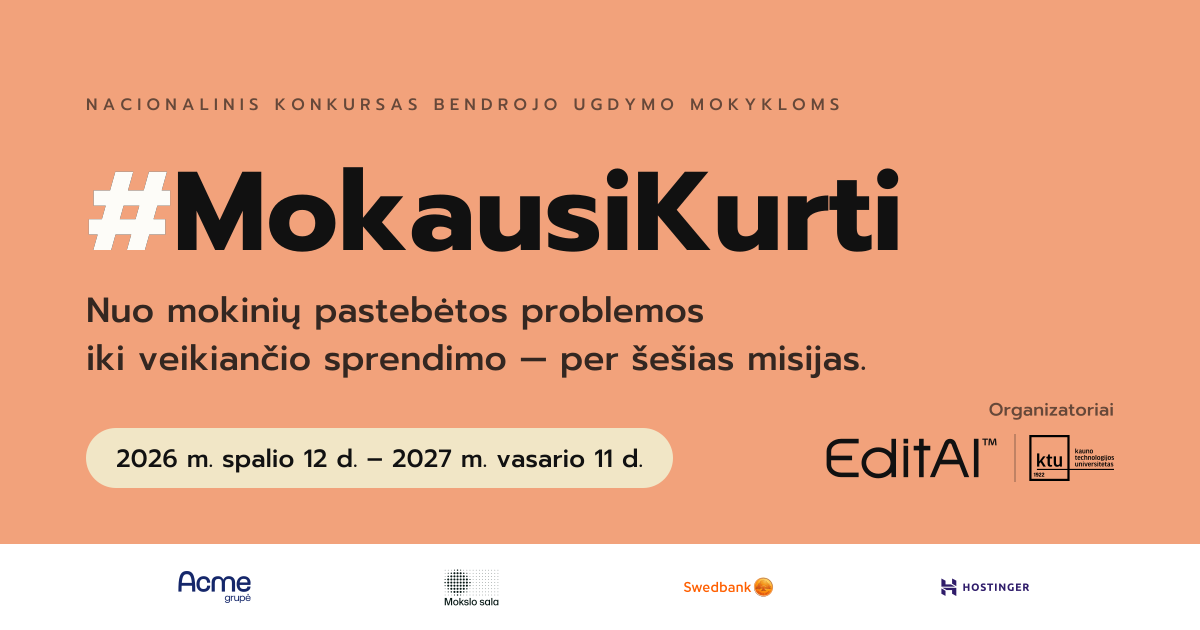
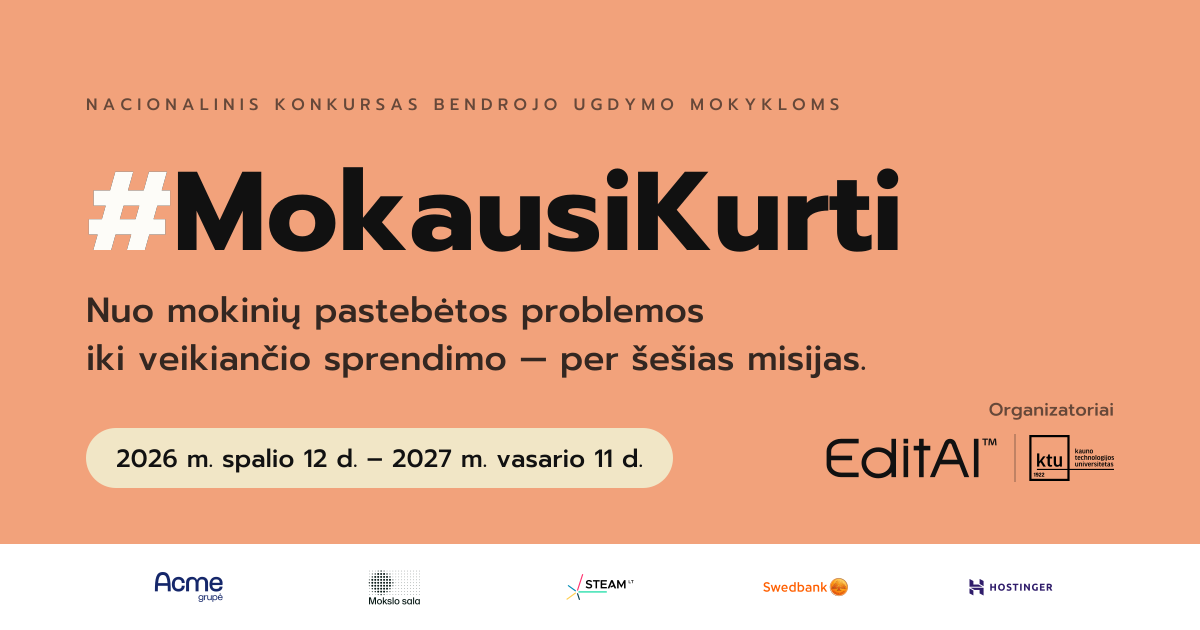
Kauno STEAM centras - partneris

diff --git a/index.html b/index.html
@@ -180,6 +180,7 @@ a.tile:hover{border-color:var(--line-strong);transform:translateY(-2px);box-shad
 .plogo--ms img{max-height:58px;max-width:112px}
 .plogo--swed img{max-height:30px;max-width:152px}
 .plogo--host img{max-height:26px;max-width:150px}
+.plogo--steam img{max-height:34px;max-width:140px}
 .plogo__cap{position:absolute;left:0;right:0;bottom:9px;text-align:center;font-size:10.5px;font-weight:500;letter-spacing:.1em;text-transform:uppercase;color:rgba(17,17,17,.42)}
 
 /* section head */
@@ -428,6 +429,7 @@ a.tile:hover{border-color:var(--line-strong);transform:translateY(-2px);box-shad
           <path d="M17.4218 0C2.42125 0 0 13.6887 0 42.5081H6.42811C6.42811 37.8786 6.51006 33.8914 6.66775 30.4249H28.1747C28.3311 33.8914 28.4143 37.8786 28.4143 42.5081H34.8424C34.8424 13.6887 32.4224 0 17.4218 0ZM7.05267 24.5061C8.42347 9.17211 12.0193 6.56975 17.4206 6.56975C22.8231 6.56975 26.4177 9.17211 27.7885 24.5061H7.05267Z" fill="#15276A"/>
         </svg><span class="plogo__cap">Geri darbai</span></a>
       <a class="tile plogo plogo--ms" href="https://mokslosala.lt" target="_blank" rel="noopener"><img src="logo/logo-mokslosala.svg" alt="Mokslo sala" loading="lazy"></a>
+      <a class="tile plogo plogo--steam" href="https://steamlt.lt/kaunas/" target="_blank" rel="noopener"><img src="logo/logo-steam.svg" alt="Kauno STEAM centras" loading="lazy"><span class="plogo__cap">Kauno STEAM centras</span></a>
       <a class="tile plogo plogo--swed" href="https://swedbank.lt" target="_blank" rel="noopener"><img src="logo/logo-swedbank.svg" alt="Swedbank" loading="lazy"></a>
       <a class="tile plogo plogo--host" href="https://www.hostinger.lt" target="_blank" rel="noopener"><img src="logo/logo-hostinger.svg" alt="Hostinger" loading="lazy"></a>
     </div>
@@ -556,8 +558,8 @@ a.tile:hover{border-color:var(--line-strong);transform:translateY(-2px);box-shad
       <article class="lab">
         <div class="lab__logo lab__logo--ms"><img src="logo/logo-mokslosala.svg" alt="Mokslo sala" loading="lazy"></div>
         <h3>„Mokslo salos“ STEAM laboratorijos</h3>
-        <p>Interaktyvios STEAM erdvės, planetariumas ir laboratorijų edukacijos Kaune. Čia vyks ir
-           finalinis konkurso renginys 2027 m. vasario 11 d.</p>
+        <p>Interaktyvios STEAM erdvės, planetariumas ir laboratorijų edukacijos Kaune. Čia veikia ir
+           Kauno STEAM centras, o 2027 m. vasario 11 d. vyks finalinis konkurso renginys.</p>
       </article>
     </div>
   </div>
@@ -834,7 +836,7 @@ a.tile:hover{border-color:var(--line-strong);transform:translateY(-2px);box-shad
       </svg>
         <p class="foot__tag">
           Nacionalinis mokyklų konkursas <strong>#MokausiKurti</strong> · 2026 m. spalio 12 d. – 2027 m. vasario 11 d.
-          Organizatoriai — UAB „EditAI“ ir Kauno technologijos universitetas. Partneriai: ACME „Geri darbai“, Hostinger, „Mokslo sala“ ir Swedbank.
+          Organizatoriai — UAB „EditAI“ ir Kauno technologijos universitetas. Partneriai: ACME „Geri darbai“, Hostinger, „Mokslo sala“, Kauno STEAM centras ir Swedbank.
         </p>
       </div>
       <div class="contact">
